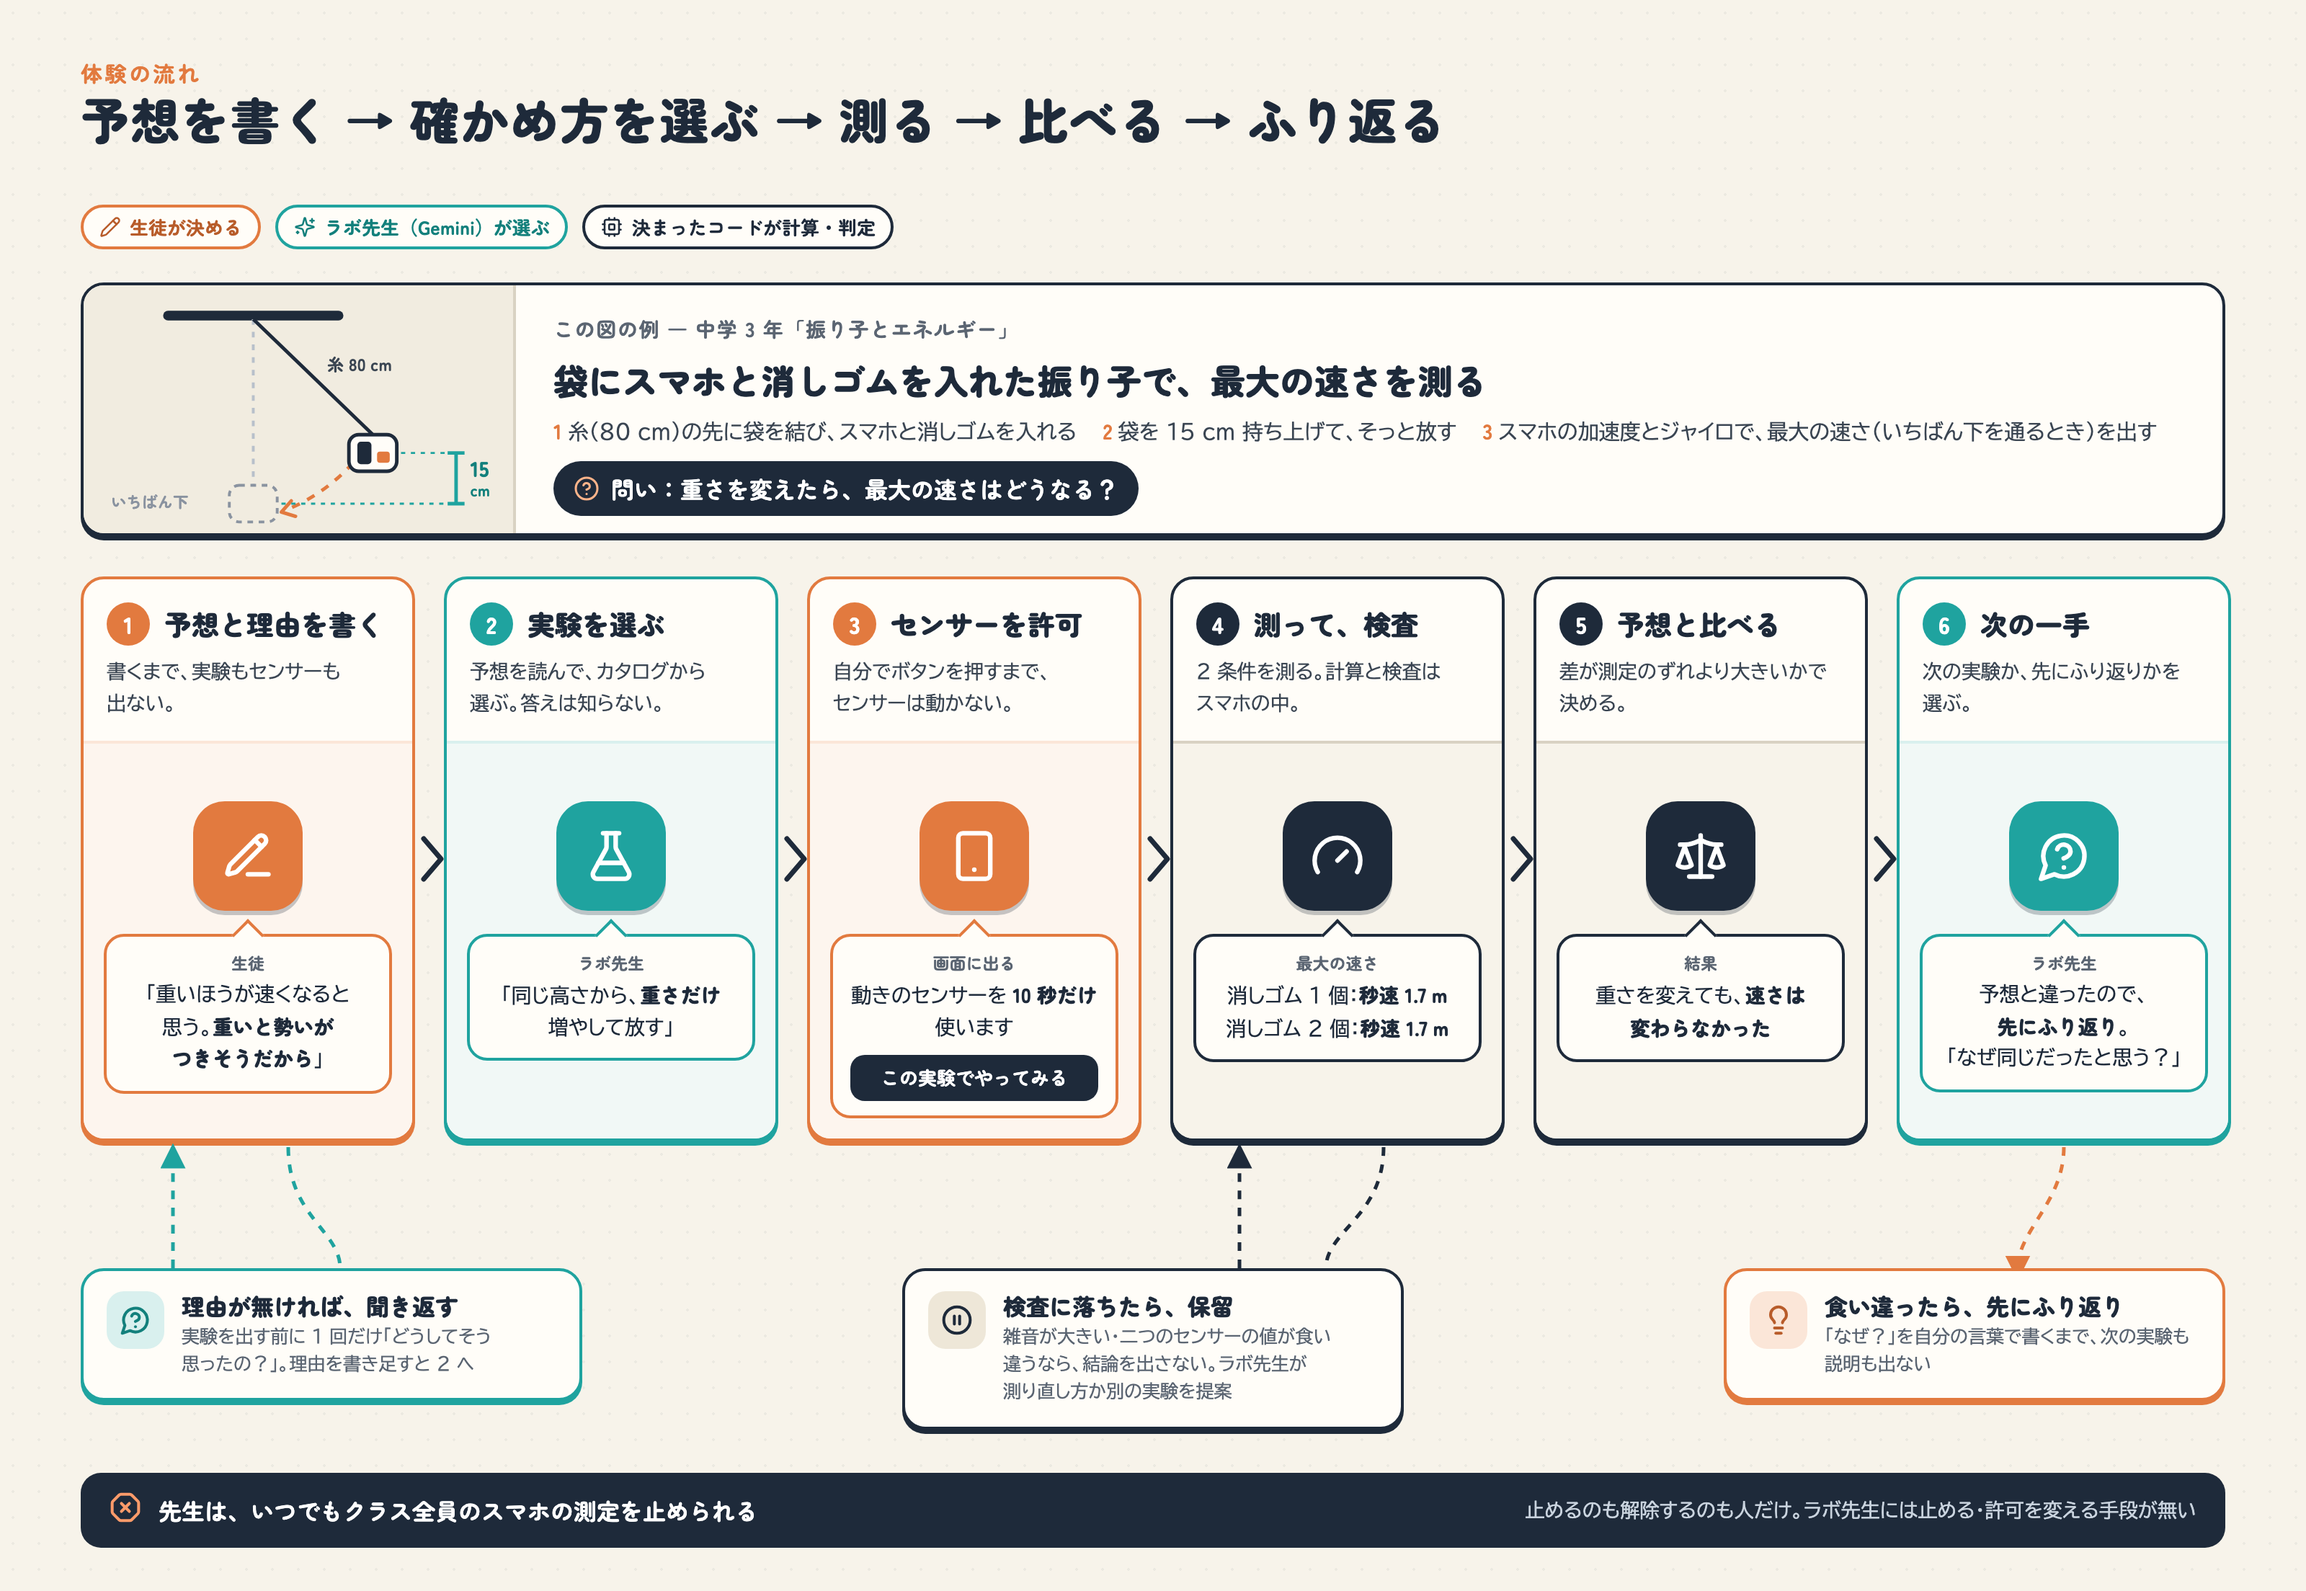
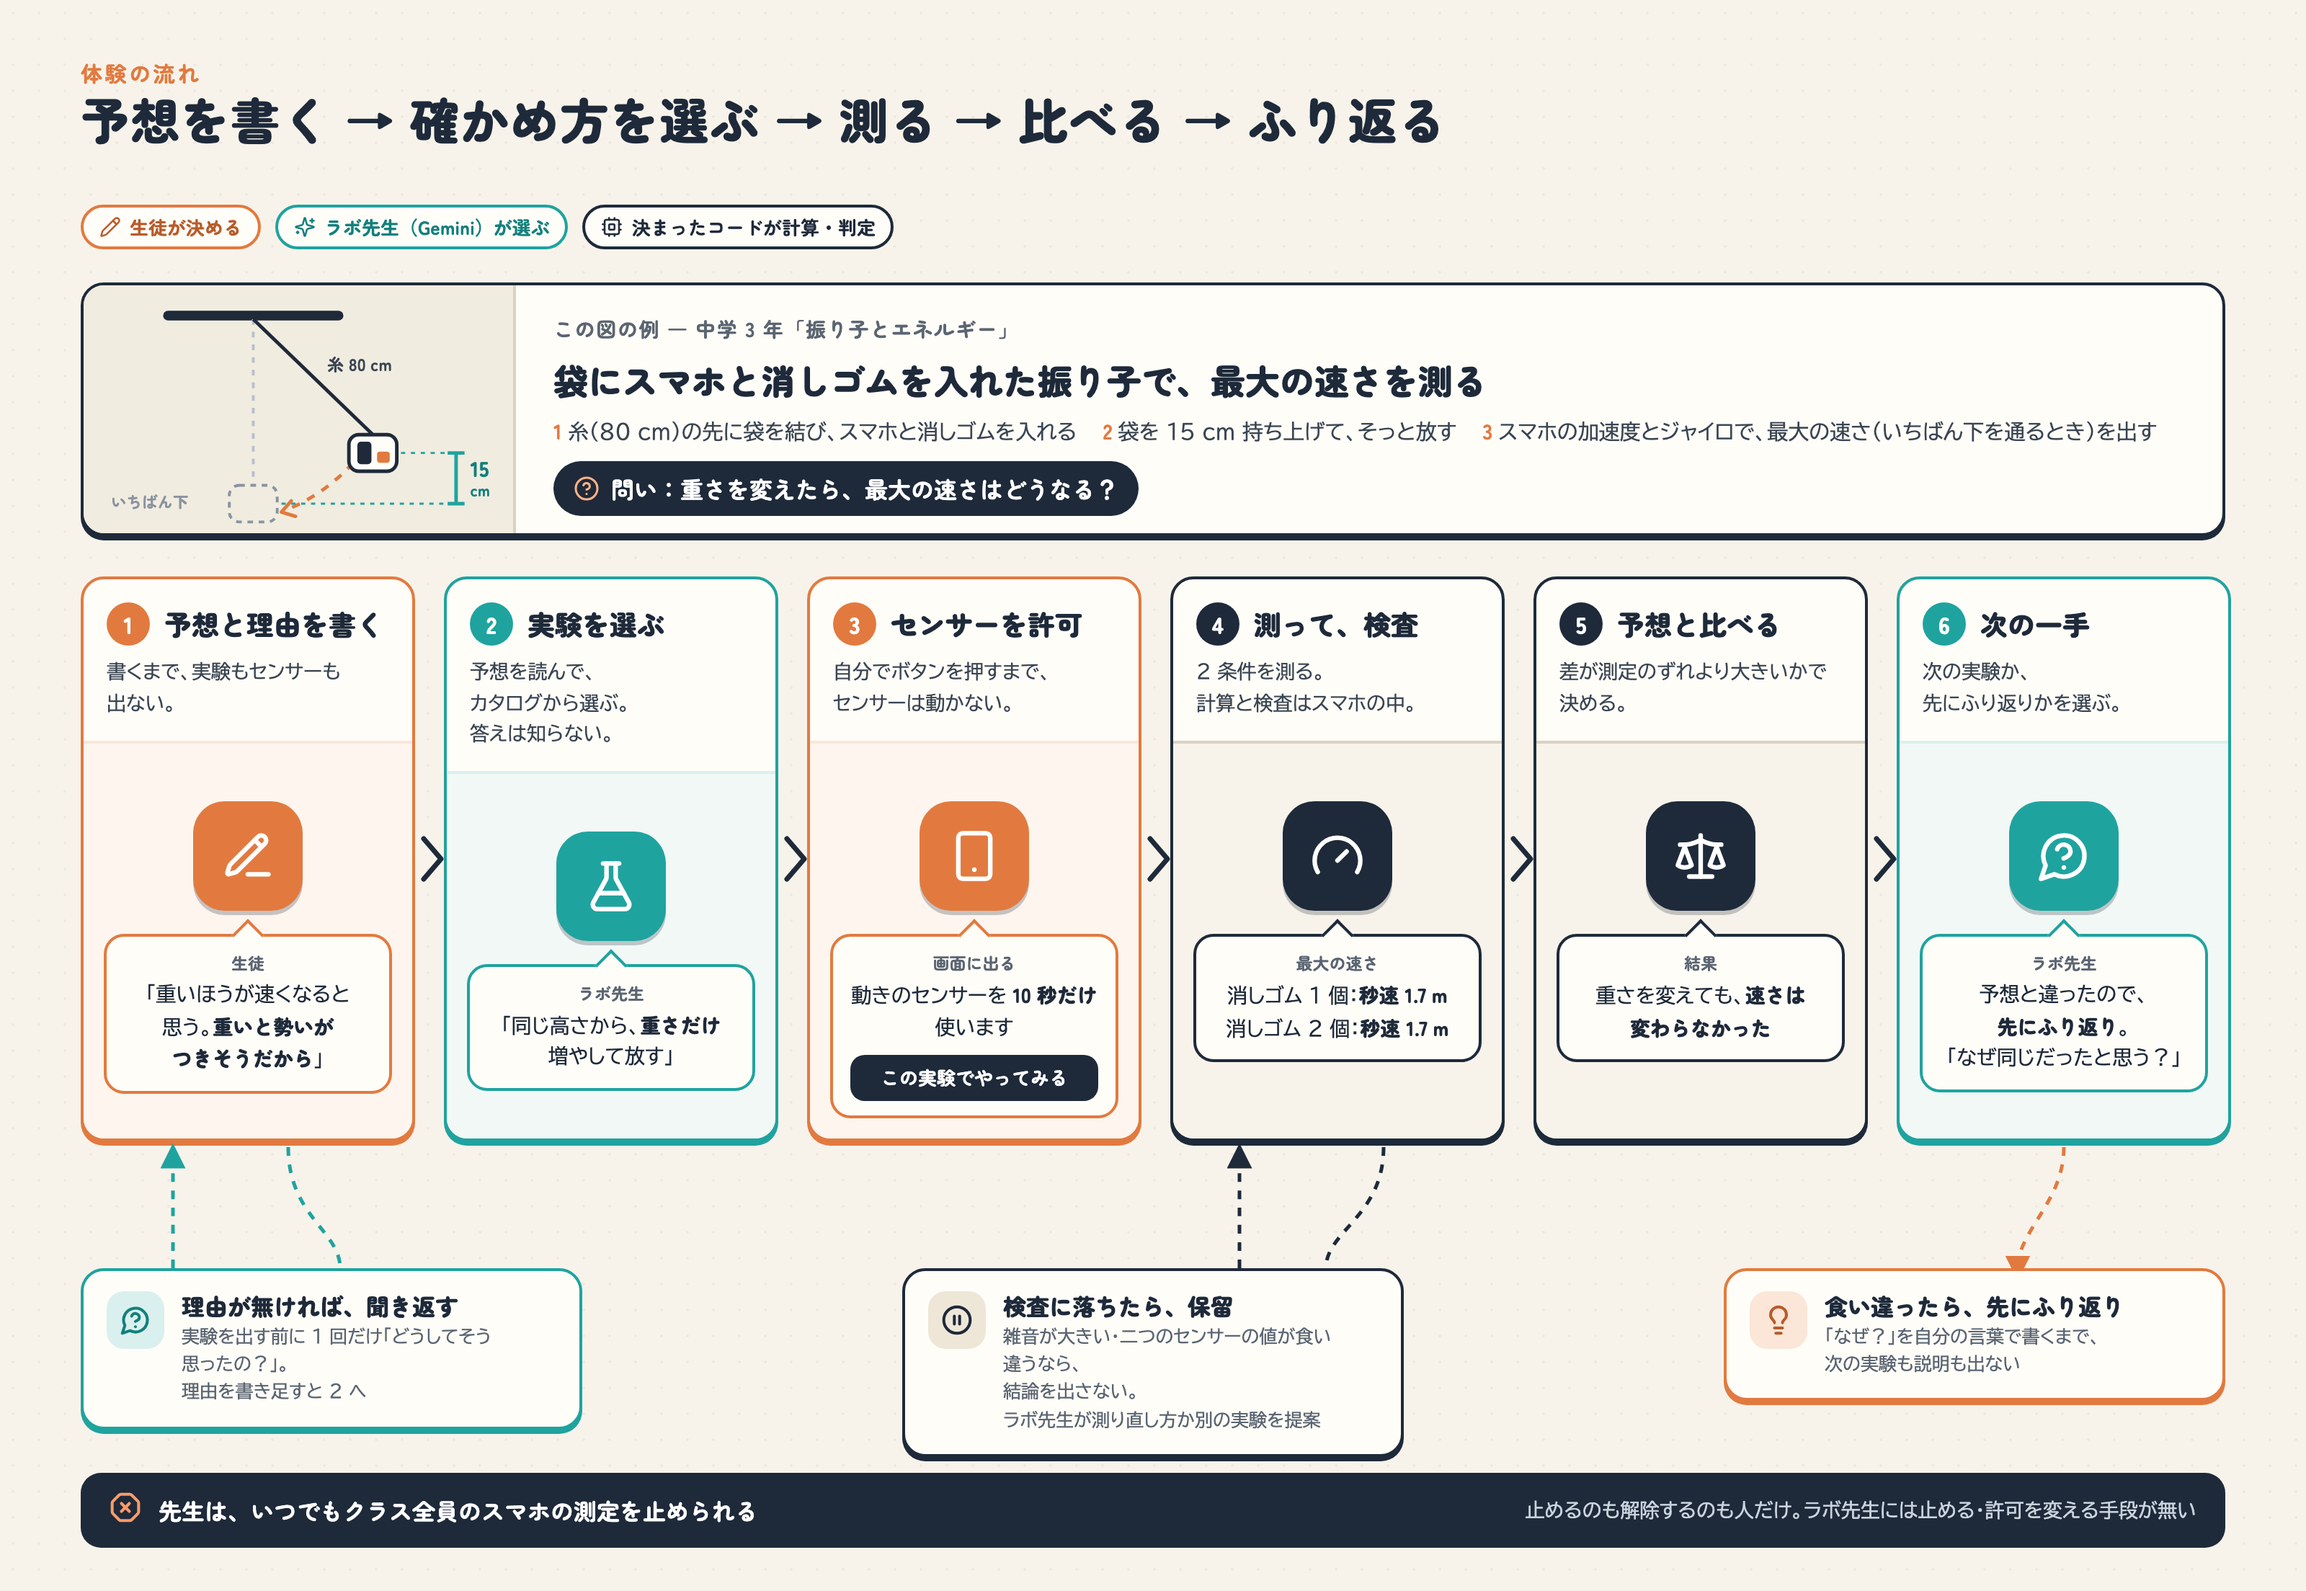
fix(video,docs): 見出し・字幕・図の説明を「、」「。」の意味の切れ目で改行する

diff --git a/docs/zenn-images/diagrams/system.html b/docs/zenn-images/diagrams/system.html
@@ -38,7 +38,7 @@
   <div class="abs" style="left:56px; top:40px">
     <div class="kicker">システム構成</div>
     <div class="headline">端末で測り、Cloud Run の 1 つのサービスでエージェントを動かす</div>
-    <div class="lede">音声や加速度の生データは端末から出ない。サーバに届くのは、文と、検査を通った数値の要約だけ。</div>
+    <div class="lede" data-nobr>音声や加速度の生データは端末から出ない。サーバに届くのは、文と、検査を通った数値の要約だけ。</div>
   </div>
 
   <div class="zone-label" style="left:56px; top:166px">教室</div>
@@ -79,10 +79,10 @@
   </div>
   <div class="card box" style="left:510px; top:350px; width:566px; height:112px">
     <div class="head" style="margin-bottom:4px"><span class="icon"><i data-lucide="door-closed"></i></span><div class="title">入口の守り</div></div>
-    <div class="desc">AI を呼べるのは<b>学級の生徒だけ</b>（番号と合言葉）。接続元ごとのレート制限、回数の枠はモデルの前に Firestore で取る。停止中は 409。</div>
+    <div class="desc" data-nobr>AI を呼べるのは<b>学級の生徒だけ</b>（番号と合言葉）。接続元ごとのレート制限、回数の枠はモデルの前に Firestore で取る。停止中は 409。</div>
   </div>
   <div class="card box ai" style="left:510px; top:482px; width:566px; height:398px">
-    <div class="head" style="margin-bottom:0"><span class="icon" style="background:var(--teal-soft); color:#13807c"><i data-lucide="bot"></i></span><div><div class="title">ラボ先生 ＝ 5 つの LlmAgent</div><div class="small">Gemini 3.5 Flash-Lite。4 つは構造化出力、Tutor は文章</div></div></div>
+    <div class="head" style="margin-bottom:0"><span class="icon" style="background:var(--teal-soft); color:#13807c"><i data-lucide="bot"></i></span><div><div class="title">ラボ先生 ＝ 5 つの LlmAgent</div><div class="small" data-nobr>Gemini 3.5 Flash-Lite。4 つは構造化出力、Tutor は文章</div></div></div>
     <div class="agents">
       <div class="agent"><b>Planner</b><span>予想を読み、実験を選ぶ・問い返す</span></div>
       <div class="agent"><b>Replanner</b><span>保留の理由から、測り直すか別の実験か</span></div>
@@ -99,7 +99,7 @@
         <div><code>after_model</code>出口の検査と作り直し</div>
       </div>
     </div>
-    <div class="small" style="margin-top:12px">決定論の Policy（危ない実験・命令）は、Runner に渡す前に止める。答え（answers.py）はエージェントに渡さない。</div>
+    <div class="small" data-nobr style="margin-top:12px">決定論の Policy（危ない実験・命令）は、Runner に渡す前に止める。答え（answers.py）はエージェントに渡さない。</div>
   </div>
 
   <!-- サービス -->
@@ -140,4 +140,5 @@
   <div class="wlabel" style="left:1096px; top:692px; width:88px">起動時</div>
   <div class="wlabel" style="left:1096px; top:812px; width:88px">デプロイ</div>
 </div>
+<script src="break.js"></script>
 <script>lucide.createIcons();</script>

diff --git a/video/src/scenes/student.tsx b/video/src/scenes/student.tsx
@@ -1,7 +1,7 @@
 // 生徒の流れ: つかみ → 課題 → 予想 → 計画 → 許可と測定 → 結果
 import React from "react";
 import { Easing, interpolate, Sequence } from "remotion";
-import { Chip, Count, Mark, Pop, prog, Rows, Stamp, Tap, Type, useSpring, useT, Wave } from "../anim";
+import { breakAtPunct, Chip, Count, Mark, Pop, prog, Rows, Stamp, Tap, Type, useSpring, useT, Wave } from "../anim";
 import { Kicker, Logo, Paper } from "../components";
 import { Phone } from "../devices";
 import { body, C, head } from "../theme";
@@ -30,8 +30,8 @@ export const SideText: React.FC<{ title: string; sub?: string; subAt?: number; x
   return (
     <div style={{ position: "absolute", left: x, top: y, width: w }}>
       <div style={{ width: 90 * a, height: 8, borderRadius: 4, background: color, marginBottom: 24 }} />
-      <div style={{ fontFamily: head, fontWeight: 900, fontSize: size, lineHeight: 1.4, opacity: a, transform: `translateY(${(1 - a) * 30}px)` }}>{title}</div>
-      {sub ? <div style={{ fontSize: 34, lineHeight: 1.6, color: C.ink2, marginTop: 22, opacity: b, transform: `translateY(${(1 - b) * 20}px)` }}>{sub}</div> : null}
+      <div style={{ fontFamily: head, fontWeight: 900, fontSize: size, lineHeight: 1.4, opacity: a, transform: `translateY(${(1 - a) * 30}px)` }}>{breakAtPunct(title)}</div>
+      {sub ? <div style={{ fontSize: 34, lineHeight: 1.6, color: C.ink2, marginTop: 22, opacity: b, transform: `translateY(${(1 - b) * 20}px)` }}>{breakAtPunct(sub)}</div> : null}
     </div>
   );
 };
@@ -158,7 +158,7 @@ export const Plan: React.FC = () => (
       <Mark x={30} y={455} w={340} h={142} at={3.8} until={7.4} color={C.teal} label="判断の跡" />
       <Mark x={36} y={603} w={328} h={90} at={7.8} color={C.orange} label="変えるのは 1 つ" />
     </Phone>
-    <SideText title="予想を読んで、確かめられる実験をカタログから選ぶ。答えは知らない。" x={1000} y={150} size={50} color={C.teal} />
+    <SideText title="予想を読んで、確かめる実験をカタログから選ぶ。答えは知らない。" x={960} y={140} w={900} size={48} color={C.teal} />
     <div style={{ position: "absolute", left: 1000, top: 520, width: 820 }}>
       <Rows
         at={4.0}

diff --git a/video/src/anim.tsx b/video/src/anim.tsx
@@ -230,3 +230,42 @@ export const Count: React.FC<{ to: number; at: number; dur?: number; decimals?: 
   const v = to * prog(t, at, dur, Easing.out(Easing.cubic));
   return <>{v.toFixed(decimals)}</>;
 };
+
+/** 「、」「。」のところで改行する（短すぎる切れ端は次とつなぐ）。見出し・字幕を、意味の切れ目で読めるように */
+export function breakAtPunct(text: string, min = 5): React.ReactNode {
+  const parts = text.match(/[^、。！？]+[、。！？]?/g) ?? [text];
+  const lines: string[] = [];
+  for (const p of parts) {
+    const last = lines[lines.length - 1];
+    if (last !== undefined && last.replace(/[、。！？]/g, "").length < min) lines[lines.length - 1] = last + p;
+    else lines.push(p);
+  }
+  return lines.map((l, i) => (
+    <span key={i} style={{ display: "block" }}>
+      {l.trim()}
+    </span>
+  ));
+}
+
+/** 字幕用: 短ければ 1 行、長ければ真ん中にいちばん近い「、」「。」で 2 行に */
+export function twoLines(text: string, max = 26): React.ReactNode {
+  if (text.length <= max) return text;
+  const mid = text.length / 2;
+  // 「。」が真ん中の近く（全体の 3 割以内）にあれば、そちらを優先する
+  const pick = (chars: string) => {
+    let best = -1;
+    for (let i = 0; i < text.length - 1; i++) {
+      if (chars.includes(text[i]) && (best < 0 || Math.abs(i - mid) < Math.abs(best - mid))) best = i;
+    }
+    return best;
+  };
+  const period = pick("。");
+  const best = period >= 0 && Math.abs(period - mid) <= text.length * 0.3 ? period : pick("、。");
+  if (best < 0) return text;
+  return (
+    <>
+      <span style={{ display: "block" }}>{text.slice(0, best + 1)}</span>
+      <span style={{ display: "block" }}>{text.slice(best + 1)}</span>
+    </>
+  );
+}

diff --git a/docs/zenn-images/diagrams/break.js b/docs/zenn-images/diagrams/break.js
@@ -1,0 +1,34 @@
+// 説明の文を、意味の切れ目で改行する。「。」「、」のあとで、前後どちらも 6 文字以上あるときだけ。
+// 導入（.lede）は「。」だけ。data-nobr を付けた要素は触らない（高さの決まった枠ではみ出すため）
+(function () {
+  const MIN = 6;
+  document.querySelectorAll(".desc, .small, .lede").forEach((el) => {
+    if (el.querySelector("br") || el.hasAttribute("data-nobr")) return; // 手で改行してあるもの・枠の決まったものはそのまま
+    const periodsOnly = el.classList.contains("lede");
+    el.childNodes.forEach((node) => {
+      if (node.nodeType !== 3) return;
+      const text = node.textContent;
+      const out = [];
+      let line = "";
+      for (let i = 0; i < text.length; i++) {
+        line += text[i];
+        const rest = text.slice(i + 1).trim();
+        const enough = line.length >= MIN && rest.replace(/[。、]/g, "").length >= MIN;
+        const isEnd = text[i] === "。" && enough;
+        const isComma = !periodsOnly && text[i] === "、" && enough;
+        if (isEnd || isComma) {
+          out.push(line);
+          line = "";
+        }
+      }
+      if (line) out.push(line);
+      if (out.length < 2) return;
+      const frag = document.createDocumentFragment();
+      out.forEach((l, k) => {
+        frag.appendChild(document.createTextNode(l));
+        if (k < out.length - 1) frag.appendChild(document.createElement("br"));
+      });
+      node.replaceWith(frag);
+    });
+  });
+})();

diff --git a/video/src/components.tsx b/video/src/components.tsx
@@ -1,5 +1,6 @@
 import React from "react";
 import { AbsoluteFill, Easing, interpolate, spring, useCurrentFrame, useVideoConfig } from "remotion";
+import { twoLines } from "./anim";
 import { body, C, head } from "./theme";
 
 const ease = Easing.bezier(0.16, 1, 0.3, 1);
@@ -53,8 +54,8 @@ export const Caption: React.FC<{ text: string; sub?: string }> = ({ text, sub })
           boxShadow: "0 6px 0 rgba(30,42,58,0.25)",
         }}
       >
-        <div style={{ fontFamily: head, fontWeight: 900, fontSize: 40, lineHeight: 1.4, letterSpacing: "0.02em" }}>{text}</div>
-        {sub ? <div style={{ fontSize: 26, color: "#C9D3DE", marginTop: 6, lineHeight: 1.5 }}>{sub}</div> : null}
+        <div style={{ fontFamily: head, fontWeight: 900, fontSize: 40, lineHeight: 1.4, letterSpacing: "0.02em" }}>{twoLines(text)}</div>
+        {sub ? <div style={{ fontSize: 26, color: "#C9D3DE", marginTop: 6, lineHeight: 1.5, whiteSpace: "nowrap" }}>{sub}</div> : null}
       </div>
     </div>
   );

diff --git a/docs/zenn-images/diagrams/flow.html b/docs/zenn-images/diagrams/flow.html
@@ -160,4 +160,5 @@
 
   <div class="halt"><span class="icon"><i data-lucide="octagon-x"></i></span>先生は、いつでもクラス全員のスマホの測定を止められる<small>止めるのも解除するのも人だけ。ラボ先生には止める・許可を変える手段が無い</small></div>
 </div>
+<script src="break.js"></script>
 <script>lucide.createIcons();</script>

diff --git a/docs/zenn-images/diagrams/governance.html b/docs/zenn-images/diagrams/governance.html
@@ -141,4 +141,5 @@
     </ul>
   </div>
 </div>
+<script src="break.js"></script>
 <script>lucide.createIcons();</script>
